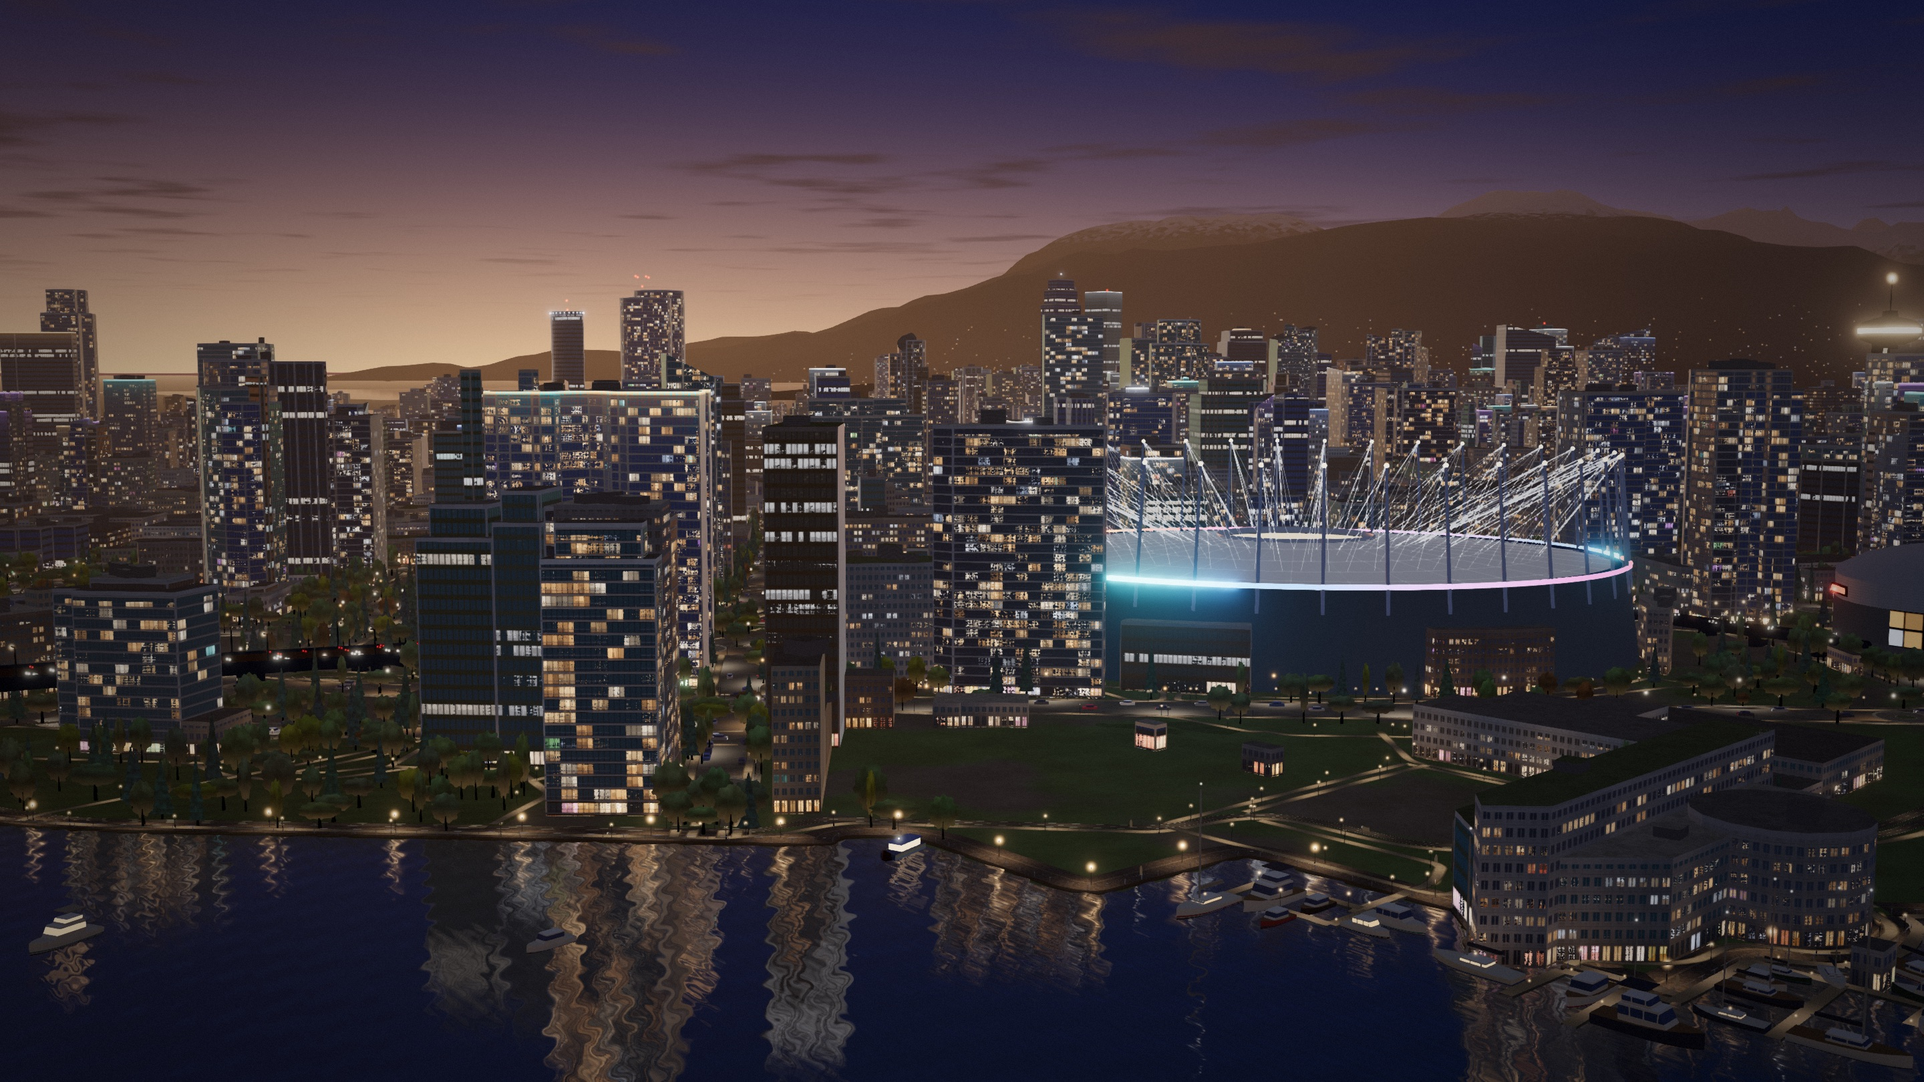
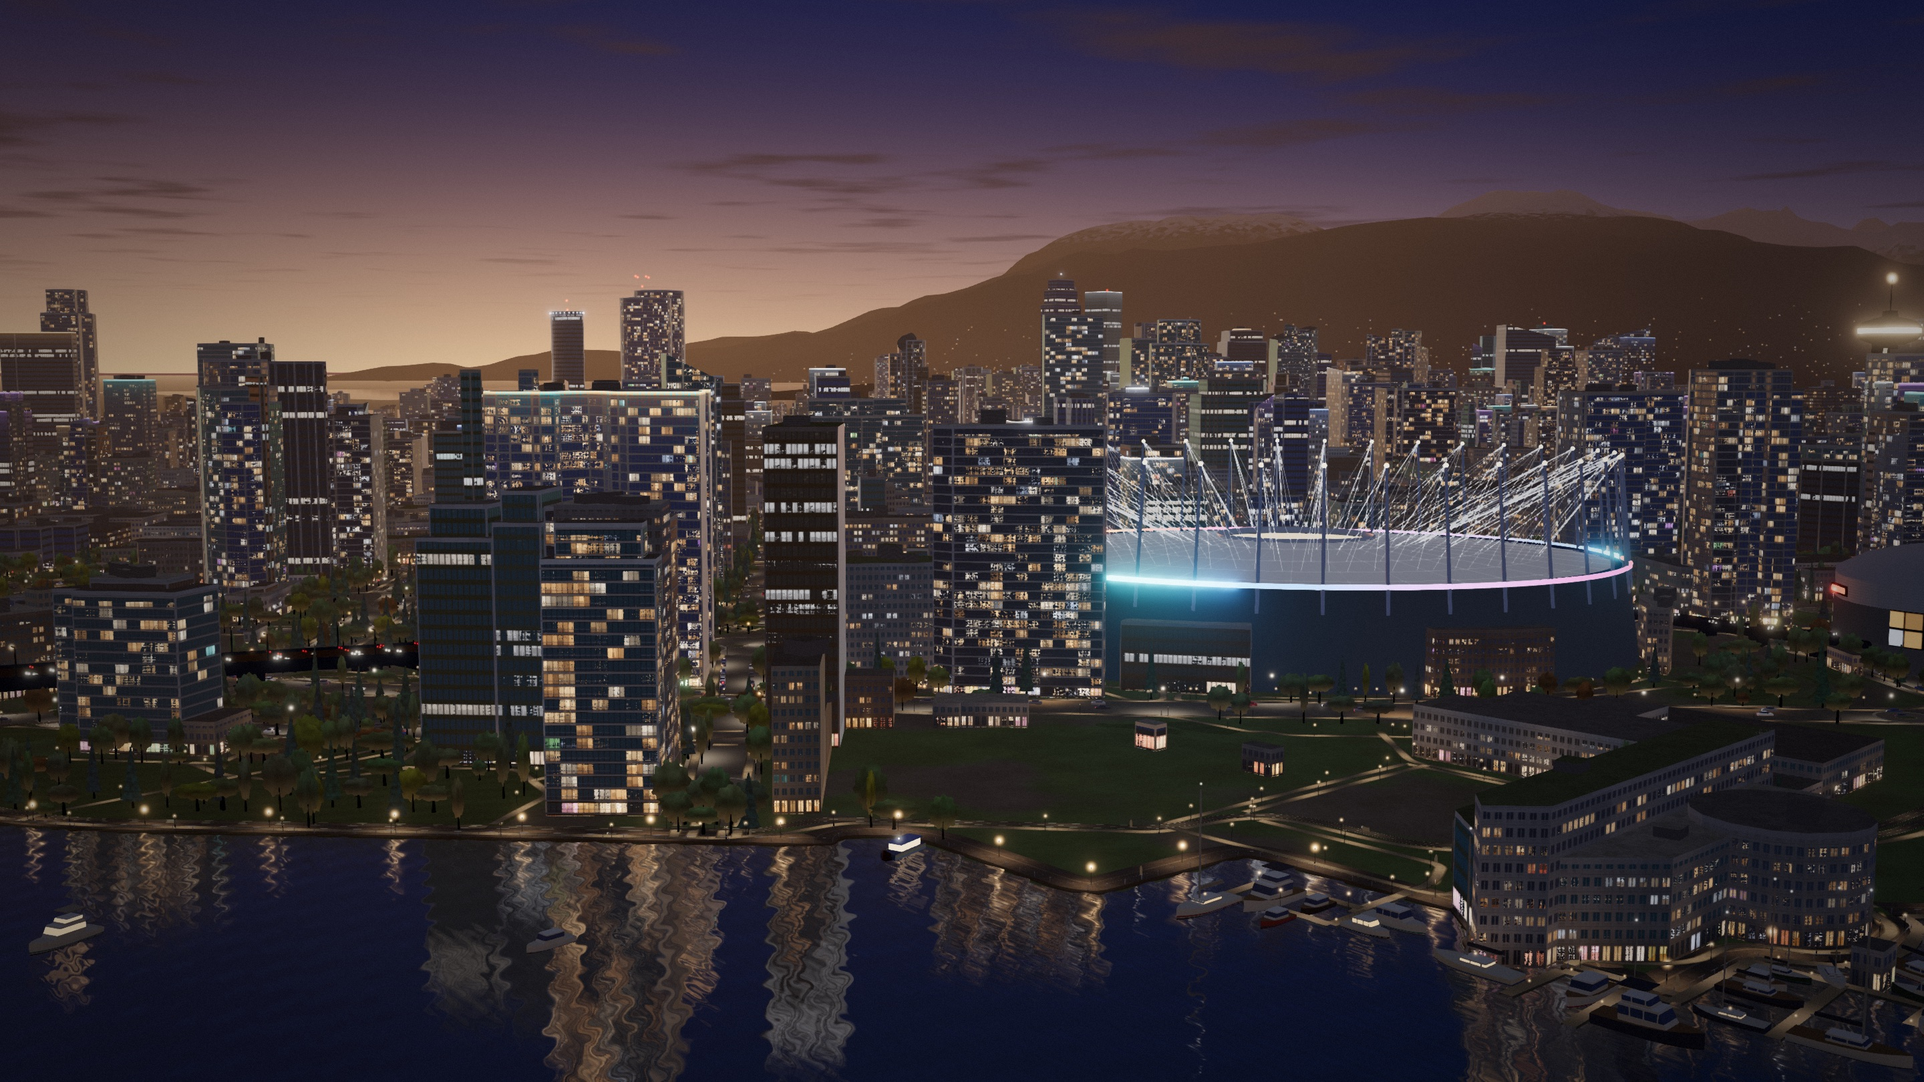
Hero: remove circling and parked cars at the corner and a bridge-side boat; smoother textures, rounded cars, shed eaves
No traffic or parking on closed street loops or stubs; parked cars keep out of junctions. Open-water boats near
bridges are dropped. Square-cell noise replaced by smooth and cellular noise in paving, rock, asphalt and
sidewalks; car bodies are rounded; Granville Island sheds get roof overhangs and vents. Posters re-rendered.

diff --git a/src/hero/streets.js b/src/hero/streets.js
@@ -7,8 +7,9 @@
 
 import * as THREE from 'three';
 import { mergeGeometries } from 'three/addons/utils/BufferGeometryUtils.js';
-import { skyGlsl, hashGlsl, fogGlsl } from './shaders.js';
+import { skyGlsl, hashGlsl, groundGlsl, fogGlsl } from './shaders.js';
 import { miterOffsets } from './ribbon.js';
+import { RoundedBoxGeometry } from 'three/addons/geometries/RoundedBoxGeometry.js';
 
 export function createStreets(roads, uniforms, { camera = [0, 0], maxDistance = 2600, lampSpacing = 34, carSpacing = [18, 48], ribbonDistance = 2200, localTrafficDistance = 1300, bodyDistance = 1500, isWater = () => false, heightAt = () => 0 } = {}) {
   let seed = 77;
@@ -63,6 +64,10 @@ export function createStreets(roads, uniforms, { camera = [0, 0], maxDistance = 
       const k = 3.4 + rand() * 1.4;
       lamps.push({ p: [p[0], 8 + heightAt(p[0], p[1]), -p[1]], color: (sodium ? [1, 0.55, 0.2] : [1, 0.86, 0.68]).map((c) => c * k), size: 0.7 });
     }
+
+    // A closed loop (its ends meet) or a stub shorter than 70 m is a turnaround or a driveway, not a street: cars would only
+    // circle on it. No traffic there.
+    if (length < 70 || Math.hypot(pts[0][0] - pts[pts.length - 1][0], pts[0][1] - pts[pts.length - 1][1]) < 3) continue;
 
     // Traffic: one lane each way on main roads; lighter traffic on local streets near the camera
     // (the waterfront, Olympic Village and around Science World).
@@ -196,6 +201,7 @@ export function createStreets(roads, uniforms, { camera = [0, 0], maxDistance = 
     fragmentShader: /* glsl */ `
       ${skyGlsl}
       ${hashGlsl}
+      ${groundGlsl}
       ${fogGlsl}
       uniform float uSpacing;
       varying vec3 vWorld; varying float vArc; varying float vAcross; varying float vPhase; varying float vHalf;
@@ -211,7 +217,7 @@ export function createStreets(roads, uniforms, { camera = [0, 0], maxDistance = 
         // Asphalt, a touch lighter in the middle; faint lane markings on wide roads.
         // The carriageway ends at the kerb (the kerb and sidewalk are their own layer, drawn beneath, so they never cut across a junction).
         float edge = 1.0 - smoothstep(vHalf - 0.5, vHalf - 0.25, abs(vAcross));
-        vec3 asphalt = vec3(0.022, 0.023, 0.027) * (0.85 + 0.3 * hash12(floor(vWorld.xz / 3.0)));
+        vec3 asphalt = vec3(0.022, 0.023, 0.027) * (0.82 + 0.36 * gfbm(vWorld.xz * 0.45));
         float marking = step(vHalf, 10.5) < 0.5 ? (1.0 - smoothstep(0.1, 0.25, abs(vAcross))) * step(0.5, fract(vArc / 6.0)) : 0.0;
         vec3 col = asphalt + lamp * pool * 0.28 + vec3(0.6) * marking * pool * 0.15;
         gl_FragColor = vec4(applyFog(col * edge, vWorld), edge);
@@ -233,6 +239,7 @@ export function createStreets(roads, uniforms, { camera = [0, 0], maxDistance = 
     fragmentShader: /* glsl */ `
       ${skyGlsl}
       ${hashGlsl}
+      ${groundGlsl}
       ${fogGlsl}
       uniform float uSpacing;
       varying vec3 vWorld; varying float vArc; varying float vAcross; varying float vPhase; varying float vHalf;
@@ -245,7 +252,7 @@ export function createStreets(roads, uniforms, { camera = [0, 0], maxDistance = 
         float side = mod(k, 2.0) < 0.5 ? 1.0 : -1.0;
         float across = vAcross - side * vHalf;
         float pool = exp(-(along * along * 0.8 + across * across) / (2.0 * 5.5 * 5.5));
-        float grain = 0.8 + 0.4 * hash12(floor(vWorld.xz * 2.5));
+        float grain = 0.82 + 0.36 * gfbm(vWorld.xz * 1.6);
         float joint = 1.0 - 0.2 * (1.0 - step(0.06, fract(vArc / 1.6)));
         float kerb = smoothstep(vHalf - 0.5, vHalf - 0.45, a) * (1.0 - smoothstep(vHalf - 0.02, vHalf + 0.04, a));
         vec3 base = mix(vec3(0.058, 0.056, 0.054) * joint, vec3(0.1, 0.098, 0.094), kerb) * grain;
@@ -265,13 +272,21 @@ export function createStreets(roads, uniforms, { camera = [0, 0], maxDistance = 
  * greys and whites with the odd red or blue; roofs and glass pick up the sky, sides catch street light.
  */
 export function createCarBodies(count, uniforms, rand) {
-  const box = (w, h, d, y, part) => {
-    const g = new THREE.BoxGeometry(w, h, d);
-    g.translate(0, y + h / 2, 0);
-    g.setAttribute('aPart', new THREE.Float32BufferAttribute(new Array(g.attributes.position.count).fill(part), 1));
-    return g;
+  // Rounded boxes (soft edges and corners, not sharp cubes); the cabin is narrower at the roof and set back, so the car has a
+  // bonnet, a windscreen and a boot.
+  const box = (w, h, d, y, part, x = 0, radius = 0.22) => {
+    const g = new RoundedBoxGeometry(w, h, d, 2, Math.min(radius, h / 2.2, d / 2.2));
+    g.translate(x, y + h / 2, 0);
+    g.deleteAttribute('uv');
+    const ng = g; // RoundedBoxGeometry is already non-indexed
+    ng.setAttribute('aPart', new THREE.Float32BufferAttribute(new Array(ng.attributes.position.count).fill(part), 1));
+    return ng;
   };
-  const parts = [box(4.4, 0.75, 1.8, 0.25, 0), box(2.3, 0.55, 1.6, 1.0, 1)];
+  const cabin = box(2.1, 0.62, 1.55, 0.98, 1, -0.2, 0.3);
+  // Taper the cabin's roof: pull the top vertices in, so the windscreen and rear glass slope.
+  const cp = cabin.attributes.position;
+  for (let i = 0; i < cp.count; i++) if (cp.getY(i) > 1.35) { cp.setX(i, cp.getX(i) * 0.82); cp.setZ(i, cp.getZ(i) * 0.92); }
+  const parts = [box(4.4, 0.78, 1.8, 0.25, 0, 0, 0.3), cabin];
   const geo = mergeGeometries(parts);
   const paint = [[0.02, 0.02, 0.022], [0.05, 0.05, 0.055], [0.12, 0.12, 0.125], [0.3, 0.3, 0.3], [0.2, 0.02, 0.02], [0.02, 0.04, 0.1], [0.08, 0.08, 0.09]];
   const col = new Float32Array(count * 3);
@@ -341,10 +356,11 @@ function createTurnarounds(list, uniforms, heightAt) {
     fragmentShader: /* glsl */ `
       ${skyGlsl}
       ${hashGlsl}
+      ${groundGlsl}
       ${fogGlsl}
       varying vec3 vWorld; varying float vR;
       void main() {
-        float grit = 0.85 + 0.3 * hash12(floor(vWorld.xz * 2.0));
+        float grit = 0.82 + 0.36 * gfbm(vWorld.xz * 1.2);
         vec3 asphalt = vec3(0.026, 0.027, 0.031) * grit;
         vec3 kerb = vec3(0.075, 0.073, 0.07);
         vec3 grass = vec3(0.012, 0.024, 0.013) * grit;

diff --git a/src/hero/southbank.js b/src/hero/southbank.js
@@ -228,25 +228,47 @@ export function createSouthBank(data, uniforms, { camera, isWater, buildings, de
   const furniture = createSeawallFurniture(data.shoreline, { camera, distance: detail.furnitureDistance, isWater });
   group.add(furniture.group);
 
+  // Every street segment, for keeping parked cars out of junctions and turnarounds: a parked car must be on its own street and
+  // clear of any other street (and of the street's own ends, where a turnaround or a junction is).
+  const SEG = 24, segGrid = new Map();
+  const segKey = (i, j) => `${i},${j}`;
+  data.roads.forEach((r, id) => {
+    for (let k = 1; k < r.line.length; k++) {
+      const a = r.line[k - 1], b = r.line[k];
+      for (let i = Math.floor((Math.min(a[0], b[0]) - 14) / SEG); i <= Math.floor((Math.max(a[0], b[0]) + 14) / SEG); i++)
+        for (let j = Math.floor((Math.min(a[1], b[1]) - 14) / SEG); j <= Math.floor((Math.max(a[1], b[1]) + 14) / SEG); j++)
+          (segGrid.get(segKey(i, j)) ?? segGrid.set(segKey(i, j), []).get(segKey(i, j))).push([id, a, b]);
+    }
+  });
+  const nearOtherStreet = (x, y, own, reach) => {
+    for (const [id, a, b] of segGrid.get(segKey(Math.floor(x / SEG), Math.floor(y / SEG))) ?? []) {
+      if (id === own) continue;
+      const dx = b[0] - a[0], dy = b[1] - a[1], l2 = dx * dx + dy * dy || 1;
+      const t = Math.max(0, Math.min(1, ((x - a[0]) * dx + (y - a[1]) * dy) / l2));
+      if (Math.hypot(x - a[0] - dx * t, y - a[1] - dy * t) < reach) return true;
+    }
+    return false;
+  };
+
   // Parked cars along the local streets (one kerb lane each side, about half full) and street trees beyond them.
   const cars = [], treePts = [];
-  for (const road of data.roads) {
+  for (const [roadId, road] of data.roads.entries()) {
     if (road.main || road.line.length < 2 || !road.line.some(([x, y]) => dist(x, y) < detail.parkedDistance)) continue;
     const cum = cumulative(road.line), total = cum[cum.length - 1];
-    if (total < 25) continue;
+    if (total < 70 || Math.hypot(road.line[0][0] - road.line[road.line.length - 1][0], road.line[0][1] - road.line[road.line.length - 1][1]) < 3) continue; // loops and stubs: no parking
     for (const side of [1, -1]) {
-      for (let s = 8 + rand() * 4; s < total - 8; s += 6.4 + rand() * 1.6) {
+      for (let s = 15 + rand() * 4; s < total - 15; s += 6.4 + rand() * 1.6) {
         const p = sample(road.line, cum, s);
         if (dist(p.x, p.y) > detail.parkedDistance) continue;
         const x = p.x - p.uy * 4.6 * side, y = p.y + p.ux * 4.6 * side;
-        if (rand() < 0.5 || isWater(x, y) || blocked(x, y, 2.2)) continue;
+        if (rand() < 0.5 || isWater(x, y) || blocked(x, y, 2.2) || nearOtherStreet(x, y, roadId, 11)) continue;
         cars.push({ x, y, a: Math.atan2(p.uy, p.ux) + (rand() < 0.04 ? 0.18 : 0) });
       }
       for (let s = 5 + rand() * 6; s < total - 5; s += 13 + rand() * 5) {
         const p = sample(road.line, cum, s);
         if (dist(p.x, p.y) > detail.parkedDistance * 1.3 || rand() < 0.4) continue;
         const x = p.x - p.uy * 8.2 * side, y = p.y + p.ux * 8.2 * side;
-        if (!isWater(x, y) && !blocked(x, y, 3)) treePts.push([x, y]);
+        if (!isWater(x, y) && !blocked(x, y, 3) && !nearOtherStreet(x, y, roadId, 7)) treePts.push([x, y]);
       }
     }
   }

diff --git a/src/hero/granville.js b/src/hero/granville.js
@@ -76,17 +76,28 @@ function rect(c, angle, a, w) {
   return [[c[0] - ux * a - vx * w, c[1] - uy * a - vy * w], [c[0] + ux * a - vx * w, c[1] + uy * a - vy * w], [c[0] + ux * a + vx * w, c[1] + uy * a + vy * w], [c[0] - ux * a + vx * w, c[1] - uy * a + vy * w]];
 }
 
-/** Gable roof over an oriented rectangle (ridge along the long axis). */
+/** Gable roof over an oriented rectangle (ridge along the long axis), overhanging the walls a little like real eaves. */
 function gable(b, c, angle, a, w, eave, rise, albedo, seed) {
   const ux = Math.cos(angle), uy = Math.sin(angle);
   const [p0, p1, p2, p3] = rect(c, angle, a, w);
   const r0 = [c[0] - ux * a, c[1] - uy * a], r1 = [c[0] + ux * a, c[1] + uy * a];
   const W = (p, y) => [p[0], y, -p[1]];
-  b.quad(W(p0, eave), W(p1, eave), W(r1, eave + rise), W(r0, eave + rise), albedo, 1, [1, 0], seed);
-  b.quad(W(p3, eave), W(r0, eave + rise), W(r1, eave + rise), W(p2, eave), albedo, 1, [1, 0], seed);
+  // Roof planes: wider than the walls (side eaves 0.6 m, ends 0.4 m), sloping with the same pitch, so the eaves drop a little.
+  const over = 0.6, drop = (rise / Math.max(w, 1)) * over;
+  const [q0, q1, q2, q3] = rect(c, angle, a + 0.4, w + over);
+  const s0 = [c[0] - ux * (a + 0.4), c[1] - uy * (a + 0.4)], s1 = [c[0] + ux * (a + 0.4), c[1] + uy * (a + 0.4)];
+  b.quad(W(q0, eave - drop), W(q1, eave - drop), W(s1, eave + rise), W(s0, eave + rise), albedo, 1, [1, 0], seed);
+  b.quad(W(q3, eave - drop), W(s0, eave + rise), W(s1, eave + rise), W(q2, eave - drop), albedo, 1, [1, 0], seed);
   const gab = (p, q, apex) => b.tri(W(p, eave), W(q, eave), W(apex, eave + rise), albedo, 0, [1, 0], seed); // gable ends (wall paint)
   gab(p0, p3, r0);
   gab(p1, p2, r1);
+}
+
+/** A small axis-aligned box (a vent, a chimney, a plant housing) standing on a roof. */
+function roofBox(b, x, y, w, d, y0, y1, albedo, seed) {
+  const pts = [[x - w / 2, y - d / 2], [x + w / 2, y - d / 2], [x + w / 2, y + d / 2], [x - w / 2, y + d / 2]];
+  walls(b, pts, y0, y1, albedo, seed, 1);
+  cap(b, pts, y1, [0.1, 0.1, 0.11], seed);
 }
 
 function createShedMaterial(uniforms) {
@@ -251,6 +262,17 @@ export function createGranville(gi, uniforms, { lightShare = 1 } = {}) {
     } else {
       walls(b, ring, 0, eave, albedo, seed);
       cap(b, ring, eave, ROOF, seed);
+    }
+    // Rooftop vents and chimneys on the bigger sheds (kept off the edges): small dark boxes, a few per roof.
+    if (area > 160 && isRect) {
+      const ux = Math.cos(e.angle), uy = Math.sin(e.angle);
+      const vents = Math.min(4, 1 + Math.floor(area / 500));
+      for (let k = 0; k < vents; k++) {
+        const t = (rand() - 0.5) * 1.5 * e.a, sd = (rand() - 0.5) * 0.9 * e.b;
+        const x = e.center[0] + ux * t - uy * sd, y = e.center[1] + uy * t + ux * sd;
+        const top = eave + (area > 900 ? 2.6 : Math.min(e.b * 0.5, 3.4)) * (1 - Math.abs(sd) / e.b) * 0.9;
+        roofBox(b, x, y, 0.7 + rand() * 0.8, 0.7 + rand() * 0.8, top - 0.3, top + 0.9 + rand() * 1.4, [0.2, 0.2, 0.22], seed);
+      }
     }
     // Warm lights along the long walls (string lights, lanterns, shopfronts): the lit-up island look.
     if (area > 80) {

diff --git a/src/hero/islands.js b/src/hero/islands.js
@@ -1,5 +1,5 @@
 import * as THREE from 'three';
-import { skyGlsl, hashGlsl, fogGlsl } from './shaders.js';
+import { skyGlsl, hashGlsl, groundGlsl, fogGlsl } from './shaders.js';
 import { isIsland, miterOffsets } from './ribbon.js';
 
 /**
@@ -66,16 +66,23 @@ export function createIslands(shoreline, causeways, uniforms) {
     fragmentShader: /* glsl */ `
       ${skyGlsl}
       ${hashGlsl}
+      ${groundGlsl}
       ${fogGlsl}
       varying vec3 vWorld; varying float vKind;
       void main() {
         vec2 p = vWorld.xz;
-        float boulder = hash12(floor(p * 1.1));
-        float grit = hash12(floor(p * 3.4) + 7.0);
-        vec3 rock = mix(vec3(0.03, 0.03, 0.032), vec3(0.085, 0.08, 0.072), boulder) * (0.65 + 0.7 * grit);
-        float clump = hash12(floor(p / 4.5));
-        vec3 plants = mix(vec3(0.010, 0.022, 0.012), vec3(0.020, 0.030, 0.013), clump) * (0.7 + 0.6 * grit);
-        vec3 pavers = vec3(0.07, 0.068, 0.064) * (0.85 + 0.3 * grit);
+        // Rock: rounded boulders with dark gaps between them (cellular), broad lighter and darker drifts across them.
+        float cell = worley(p * 0.85);
+        float stone = 1.0 - smoothstep(0.38, 0.66, cell);
+        float drift = gfbm(p * 0.6);
+        float grit = gfbm(p * 3.1);
+        vec3 rock = mix(vec3(0.026, 0.026, 0.028), vec3(0.10, 0.094, 0.085), drift) * (0.45 + 0.7 * stone) * (0.8 + 0.4 * grit);
+        // Planting: broad clumps of lighter and darker green, fine grain.
+        float clump = gfbm(p / 5.0);
+        vec3 plants = mix(vec3(0.010, 0.022, 0.012), vec3(0.022, 0.032, 0.014), clump) * (0.75 + 0.5 * grit);
+        // Pavers (the causeway path): slabs with joints.
+        vec2 sf = fract(p / 0.9);
+        vec3 pavers = vec3(0.07, 0.068, 0.064) * (0.85 + 0.3 * grit) * (1.0 - 0.25 * (1.0 - smoothstep(0.0, 0.05, min(sf.x, sf.y))));
         vec3 base = vKind < 0.5 ? rock : vKind < 1.5 ? plants : pavers;
         // Cool sky light, and a little warm spill from the seawall lamps nearby.
         vec3 col = base * vec3(0.55, 0.62, 0.85) * 1.2 + base * vec3(1.0, 0.65, 0.35) * 0.35;

diff --git a/src/hero/scene.js b/src/hero/scene.js
@@ -375,6 +375,13 @@ export async function createSkylineScene({ canvas, width, height, layout = 'desk
       openBoats.push({ x, y, heading: br() * Math.PI * 2, length: sail ? 8 + br() * 6 : 7 + br() * 8, sail });
     }
   }
+  // Anchored boats never sit by a bridge: an open-water boat within 45 m of any bridge's axis is dropped (it would hug a pier or
+  // sit under the deck, and read as a mistake).
+  const bridgeDistance = (x, y) => Math.min(...data.bridges.map(({ line: [a, b] }) => {
+    const dx = b[0] - a[0], dy = b[1] - a[1], t = Math.max(0, Math.min(1, ((x - a[0]) * dx + (y - a[1]) * dy) / (dx * dx + dy * dy)));
+    return Math.hypot(x - a[0] - dx * t, y - a[1] - dy * t);
+  }));
+  for (let i = openBoats.length - 1; i >= 0; i--) if (bridgeDistance(openBoats[i].x, openBoats[i].y) < 45) openBoats.splice(i, 1);
   const boats = createBoats([...data.boats, ...openBoats], data.docks, { camera: CAMERA_POSITION, minDistance: 220, maxDistance: detail.boatDistance, uniforms });
   scene.add(boats.group);
   addLights(boats.lights, 2);
@@ -500,7 +507,7 @@ export async function createSkylineScene({ canvas, width, height, layout = 'desk
     look,
     stats: {
       ...stats, culled, lights: lights.length, bridge: bridgeStats, boats: boats.stats, seawall: seawall.stats,
-      ferries: ferrySpots.length, streets: streets.stats, skytrain: skytrainStats, waterfront: waterfront.stats, signatures: data.signatures.length, granville: granville.stats, southBank: southBank.stats, pixelRatio: renderer.getPixelRatio(), tier: tierName,
+      ferries: ferrySpots.length, streets: streets.stats, skytrain: skytrainStats, waterfront: waterfront.stats, signatures: data.signatures.length, openBoats: openBoats.map((b) => [Math.round(b.x), Math.round(b.y), b.sail ? 'sail' : 'motor']), granville: granville.stats, southBank: southBank.stats, pixelRatio: renderer.getPixelRatio(), tier: tierName,
     },
     timings,
     render: (time) => {

diff --git a/src/hero/seawall.js b/src/hero/seawall.js
@@ -1,5 +1,5 @@
 import * as THREE from 'three';
-import { skyGlsl, hashGlsl, fogGlsl } from './shaders.js';
+import { skyGlsl, hashGlsl, groundGlsl, fogGlsl } from './shaders.js';
 import { miterOffsets, isIsland } from './ribbon.js';
 
 /**
@@ -109,6 +109,7 @@ export function createSeawall(shoreline, uniforms, { camera = [0, 0], maxDistanc
     fragmentShader: /* glsl */ `
       ${skyGlsl}
       ${hashGlsl}
+      ${groundGlsl}
       ${fogGlsl}
       uniform float uSpacing; uniform float uInset;
       varying vec3 vWorld; varying vec3 vNormal; varying float vArc; varying float vAcross;
@@ -119,8 +120,12 @@ export function createSeawall(shoreline, uniforms, { camera = [0, 0], maxDistanc
         float across = mix(vAcross - uInset, 3.0, isWall);
         float pool = exp(-(along * along + across * across) / (2.0 * 4.5 * 4.5));
         // Promenade paving: slabs with joints and grain, and a lighter kerb stone along the inland edge.
-        float grain = 0.8 + 0.4 * hash12(floor(vWorld.xz * 2.2));
-        float joint = 1.0 - 0.2 * (1.0 - step(0.06, fract(vArc / 2.0))) * step(0.0, vAcross);
+        // Slabs: broad smooth tone drift plus a slight per-slab shift, and thin dark joints (no square noise cells).
+        vec2 slab = vec2(vArc / 2.2, vAcross / 1.1);
+        float slabTone = 0.94 + 0.12 * hash12(floor(slab));
+        float grain = (0.82 + 0.36 * gfbm(vWorld.xz * 1.4)) * slabTone;
+        vec2 sf = fract(slab);
+        float joint = 1.0 - 0.28 * (1.0 - smoothstep(0.0, 0.035, min(sf.x, sf.y))) * step(0.0, vAcross);
         float kerbStone = smoothstep(4.5, 4.58, vAcross) * (1.0 - smoothstep(4.98, 5.05, vAcross)); // the deck edge is 5 m inland
         vec3 paving = mix(vec3(0.05, 0.05, 0.055) * joint, vec3(0.085, 0.083, 0.08), kerbStone) * grain;
         vec3 concrete = vec3(0.13, 0.13, 0.135);

diff --git a/src/hero/shaders.js b/src/hero/shaders.js
@@ -102,6 +102,23 @@ float gnoise(vec2 p) {
   return mix(mix(hash12(i), hash12(i + vec2(1.0, 0.0)), u.x), mix(hash12(i + vec2(0.0, 1.0)), hash12(i + vec2(1.0, 1.0)), u.x), u.y);
 }
 float gfbm(vec2 p) { return gnoise(p) * 0.55 + gnoise(p * 2.13 + 7.1) * 0.3 + gnoise(p * 4.7 + 13.3) * 0.15; }
+// Cellular (Worley) distance: near 0 at the centre of a cell, up to ~1 at the borders. Used for stones, cobbles and gravel:
+// round shapes with dark gaps, not square blocks.
+vec2 hash22(vec2 p) {
+  vec3 p3 = fract(vec3(p.xyx) * vec3(0.1031, 0.1030, 0.0973));
+  p3 += dot(p3, p3.yzx + 33.33);
+  return fract((p3.xx + p3.yz) * p3.zy);
+}
+float worley(vec2 p) {
+  vec2 i = floor(p), f = fract(p);
+  float d = 8.0;
+  for (int y = -1; y <= 1; y++) for (int x = -1; x <= 1; x++) {
+    vec2 g = vec2(float(x), float(y));
+    vec2 r = g + hash22(i + g) - f;
+    d = min(d, dot(r, r));
+  }
+  return sqrt(d);
+}
 vec3 groundColor(vec2 p) {
   float broad = gfbm(p / 70.0);
   float mid = gfbm(p / 11.0);

diff --git a/CLAUDE.md b/CLAUDE.md
@@ -157,6 +157,11 @@ A realistic, interactive 3D Vancouver skyline that also works as navigation.
   labelling land components) with tapered ends; dead-end paths fade out instead of stopping square; bike paths get painted edge lines
   and wider bends; streets get a kerb and sidewalk layer (`sidewalk` in `streets.js`); street ways that meet at a plain corner are
   chained (`chainRoads` in `skyline-data.js`) so a 90° corner becomes one rounded curve; the promenade has paving texture and a kerb stone.
+  Eighth pass (2026-11-22): no traffic or parked cars on closed street loops or stubs under 70 m, and parked cars stay out of
+  junctions and the street ends (`nearOtherStreet` in `southbank.js`); open-water boats within 45 m of a bridge axis are dropped;
+  car bodies are rounded boxes with a tapered cabin; square-cell noise (the blocky mosaic in paving, rock, asphalt and sidewalks) is
+  replaced by smooth noise and cellular stones (`gfbm`, `worley` in `shaders.js`); Granville Island sheds get roof overhangs and
+  rooftop vents.
   Still approximate: Sea Village houseboats and the ferry docks are not hand-modelled; large unmapped patches of the south bank
   (parks/lots with no OSM buildings) are plain dark ground. Hero download is ~594 KB gzipped (budget 700).
 - **Name (2026-11-21):** the hero leads with "Jacob Van Luven" as the h1: Unbounded 800, uppercase, an orange
